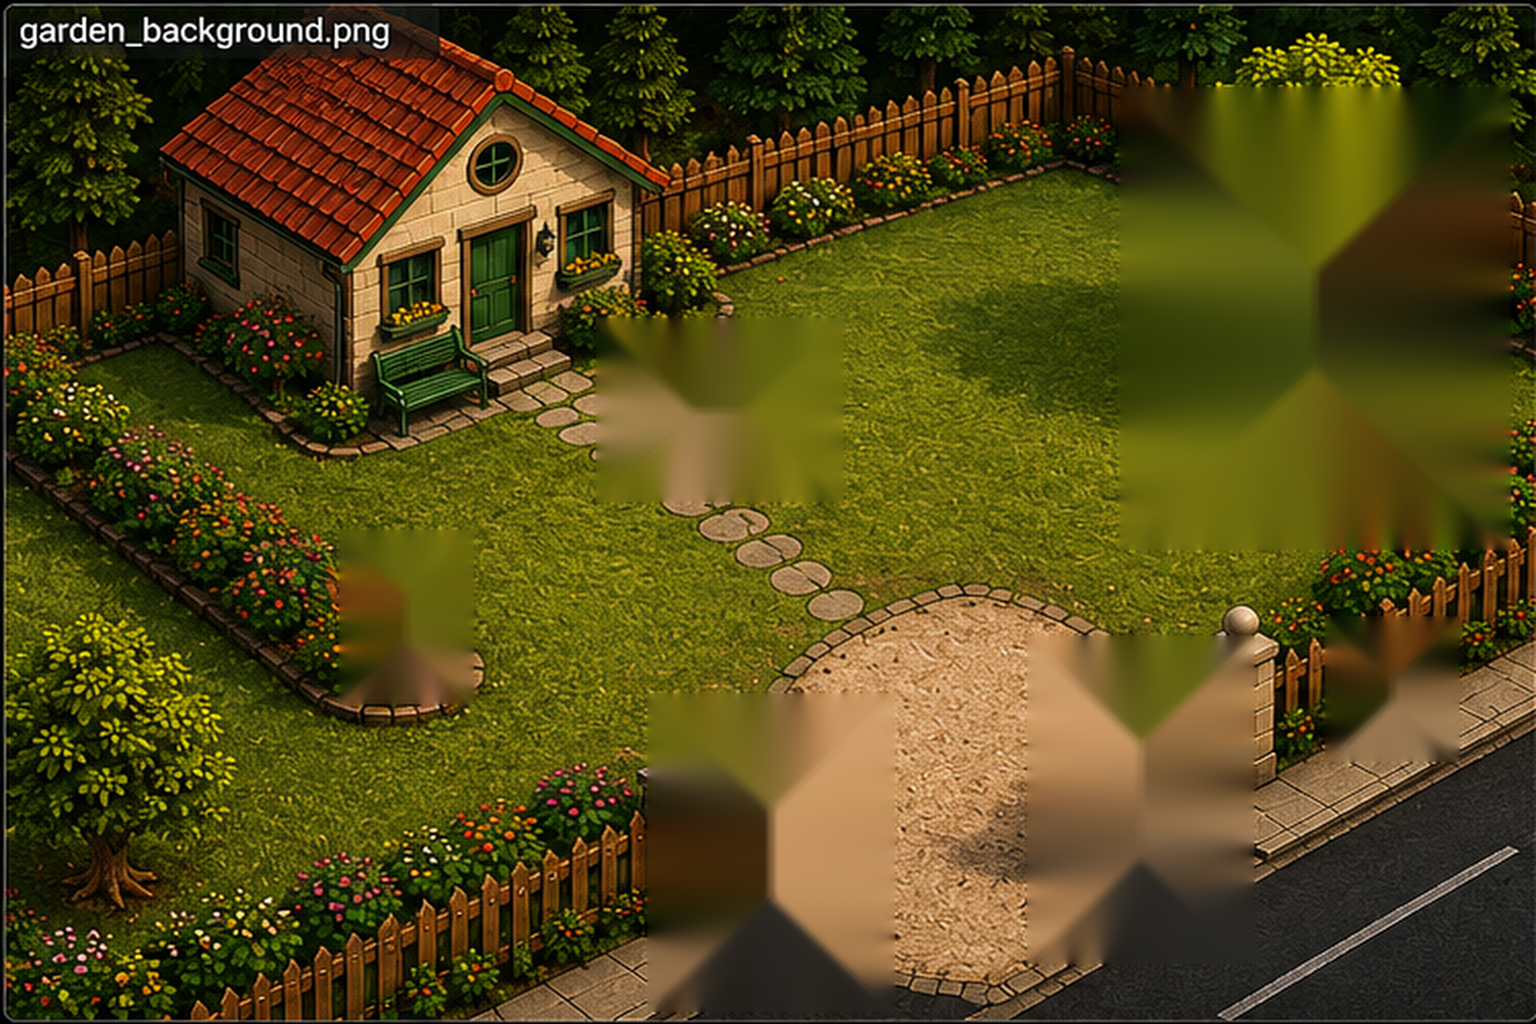
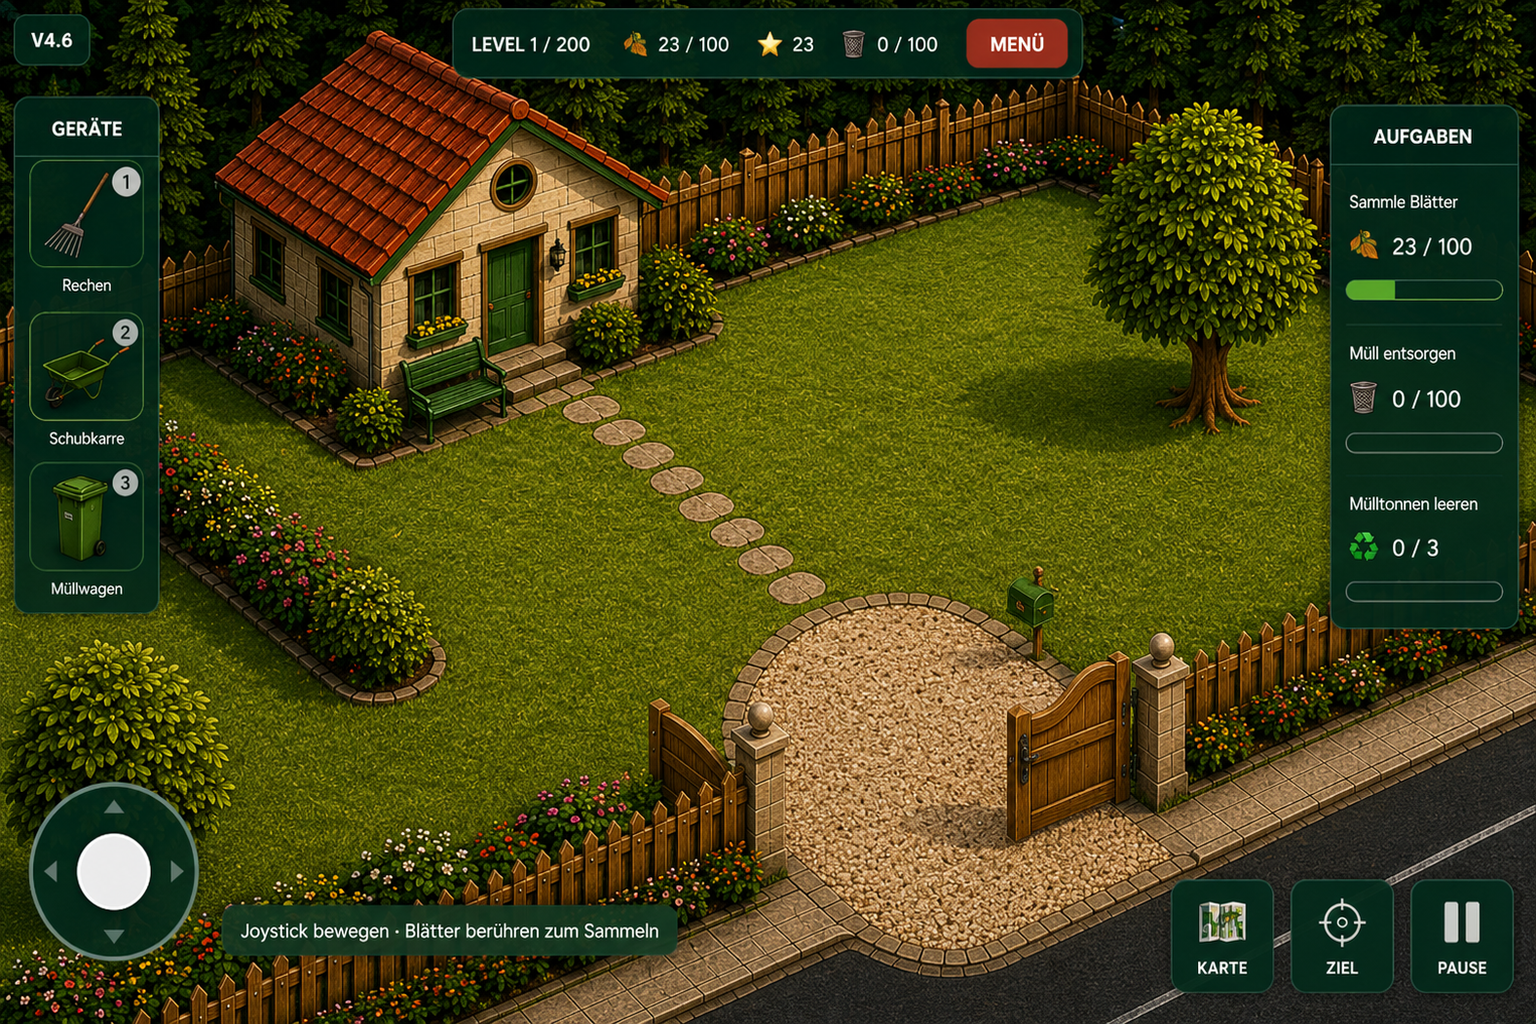
Add files via upload

diff --git a/game.js b/game.js
@@ -1,12 +1,12 @@
-const ASSET_VERSION="v450",c=document.getElementById("world"),ctx=c.getContext("2d"),I={},D=["N","NE","E","SE","S","SW","W","NW"];
+const ASSET_VERSION="v460",c=document.getElementById("world"),ctx=c.getContext("2d"),I={},D=["N","NE","E","SE","S","SW","W","NW"];
 function L(k,f){let i=new Image;i.src=f+"?v="+ASSET_VERSION;I[k]=i}L("bg","garden_background.png");["tree","bush_green","bush_flowers","flower_bed","wheelbarrow","birdbath_pool","bench","lantern","gate_left","gate_right","mailbox","bin","bin_full"].forEach(n=>L(n,n+".png"));D.forEach(d=>{L("p"+d,"player_"+d+".png");L("t"+d,"truck_"+d+".png")});for(let i=1;i<=4;i++)L("l"+i,"leaf_0"+i+".png");
 let running=false,paused=false,joy={x:0,y:0},p={x:720,y:590,d:"S"},leaves=[],scoreN=0,totalPoints=0,binN=0,emptiedN=0,truck={on:false,x:-250,y:840,d:"E",t:0};
 function spr(im,x,y,w,h){if(im?.complete&&im.naturalWidth)ctx.drawImage(im,x-w/2,y-h,w,h)}
 function dir(x,y){if(Math.hypot(x,y)<.1)return p.d;let a=(Math.atan2(y,x)*180/Math.PI+360)%360;return D[Math.round((a+90)/45)%8]}
 function reset(){scoreN=totalPoints=binN=emptiedN=0;p={x:720,y:590,d:"S"};leaves=Array.from({length:100},(_,i)=>({x:280+Math.random()*900,y:260+Math.random()*450,k:i%4+1,on:true}));ui()}
 function ui(){leafCount.textContent=scoreN;score.textContent=totalPoints;binFill.textContent=binN;taskLeaves.textContent=totalPoints;taskBin.textContent=binN;empties.textContent=emptiedN;leafBar.style.width=Math.min(100,totalPoints)+"%";binBar.style.width=Math.min(100,binN)+"%"}
-const fixed=[["bench",330,350,200,145],["wheelbarrow",850,355,185,140],["birdbath_pool",1010,320,175,115],["tree",1200,475,280,335],["bush_flowers",260,530,180,140],["bush_green",390,625,165,125],["lantern",220,590,85,170],["gate_left",810,830,180,205],["gate_right",1125,825,190,205],["mailbox",1245,745,85,135]];
-function draw(){ctx.clearRect(0,0,1536,1024);if(I.bg?.complete)ctx.drawImage(I.bg,0,0,1536,1024);let q=[];fixed.forEach(o=>q.push({y:o[2],f:()=>spr(I[o[0]],o[1],o[2],o[3],o[4])}));leaves.forEach(l=>l.on&&q.push({y:l.y,f:()=>spr(I["l"+l.k],l.x,l.y,35,35)}));q.push({y:690,f:()=>spr(I[binN>=95?"bin_full":"bin"],1035,690,95,135)});q.push({y:p.y,f:()=>spr(I["p"+p.d],p.x,p.y,110,170)});if(truck.on)q.push({y:truck.y,f:()=>spr(I["t"+truck.d],truck.x,truck.y,290,190)});q.sort((a,b)=>a.y-b.y).forEach(o=>o.f())}
+const fixed=[];
+function draw(){ctx.clearRect(0,0,1536,1024);if(I.bg?.complete)ctx.drawImage(I.bg,0,0,1536,1024);let q=[];fixed.forEach(o=>q.push({y:o[2],f:()=>spr(I[o[0]],o[1],o[2],o[3],o[4])}));leaves.forEach(l=>l.on&&q.push({y:l.y,f:()=>spr(I["l"+l.k],l.x,l.y,35,35)}));q.push({y:p.y,f:()=>spr(I["p"+p.d],p.x,p.y,110,170)});if(truck.on)q.push({y:truck.y,f:()=>spr(I["t"+truck.d],truck.x,truck.y,290,190)});q.sort((a,b)=>a.y-b.y).forEach(o=>o.f())}
 let last=performance.now();function loop(t){let dt=Math.min(.033,(t-last)/1000);last=t;if(running&&!paused)update(dt);draw();requestAnimationFrame(loop)}
 function update(dt){if(Math.hypot(joy.x,joy.y)>.1){p.x=Math.max(80,Math.min(1450,p.x+joy.x*220*dt));p.y=Math.max(170,Math.min(910,p.y+joy.y*220*dt));p.d=dir(joy.x,joy.y)}leaves.forEach(l=>{if(l.on&&Math.hypot(l.x-p.x,l.y-p.y)<38){l.on=false;scoreN++;totalPoints++;ui()}});if(Math.hypot(p.x-1035,p.y-690)<60&&scoreN){let n=Math.min(100-binN,scoreN);binN+=n;scoreN-=n;ui();if(binN>=100&&!truck.on)truck={on:true,x:-250,y:840,d:"E",t:0}}if(truck.on){truck.t+=dt;if(truck.t<4){let u=truck.t/4;truck.x=-250+u*1200;truck.y=850;truck.d="E"}else if(truck.t<6){truck.x=950;truck.d="NE";if(truck.t>5&&binN){binN=0;emptiedN++;ui()}}else if(truck.t<10){let u=(truck.t-6)/4;truck.x=950-u*1200;truck.d="W"}else truck.on=false}}
 start.onclick=()=>{menu.classList.add("hidden");game.classList.remove("hidden");reset();running=true};menuBtn.onclick=()=>{running=false;game.classList.add("hidden");menu.classList.remove("hidden")};

diff --git a/index.html b/index.html
@@ -1,11 +1,11 @@
 <!doctype html><html lang="de"><head><meta charset="utf-8">
 <meta name="viewport" content="width=device-width,initial-scale=1,maximum-scale=1,user-scalable=no,viewport-fit=cover">
-<title>Leaf Cleanup V4.5</title><link rel="stylesheet" href="style.css?v=v450"></head><body>
-<div id="menu"><div class="card"><h1>🍂 LEAF CLEANUP</h1><div class="version">V4.5 · ISOMETRIC</div>
+<title>Leaf Cleanup V4.6</title><link rel="stylesheet" href="style.css?v=v460"></head><body>
+<div id="menu"><div class="card"><h1>🍂 LEAF CLEANUP</h1><div class="version">V4.6 · ISOMETRIC</div>
 <p>Garten reinigen · Geräte freischalten · bis Level 200</p><button id="start">SPIEL STARTEN</button></div></div>
 <div id="game" class="hidden">
 <canvas id="world" width="1536" height="1024"></canvas>
-<div class="badge">V4.5</div>
+<div class="badge">V4.6</div>
 <div id="hud"><b>LEVEL <span id="level">1</span> / 200</b><span>🍂 <b id="leafCount">0</b> / 100</span>
 <span>⭐ <b id="score">0</b></span><span>🗑 <b id="binFill">0</b> / 100</span><button id="menuBtn">MENÜ</button></div>
 <aside id="tools"><h3>GERÄTE</h3>
@@ -16,4 +16,4 @@
 <p>Mülltonnen leeren</p><strong>♻ <span id="empties">0</span> / 3</strong></aside>
 <div id="joy"><div id="stick"></div></div><div class="hint">Joystick bewegen · Blätter berühren zum Sammeln</div>
 <div class="bottom"><button>🗺<small>KARTE</small></button><button>⌖<small>ZIEL</small></button><button id="pause">Ⅱ<small>PAUSE</small></button></div>
-</div><script src="game.js?v=v450"></script></body></html>
+</div><script src="game.js?v=v460"></script></body></html>
